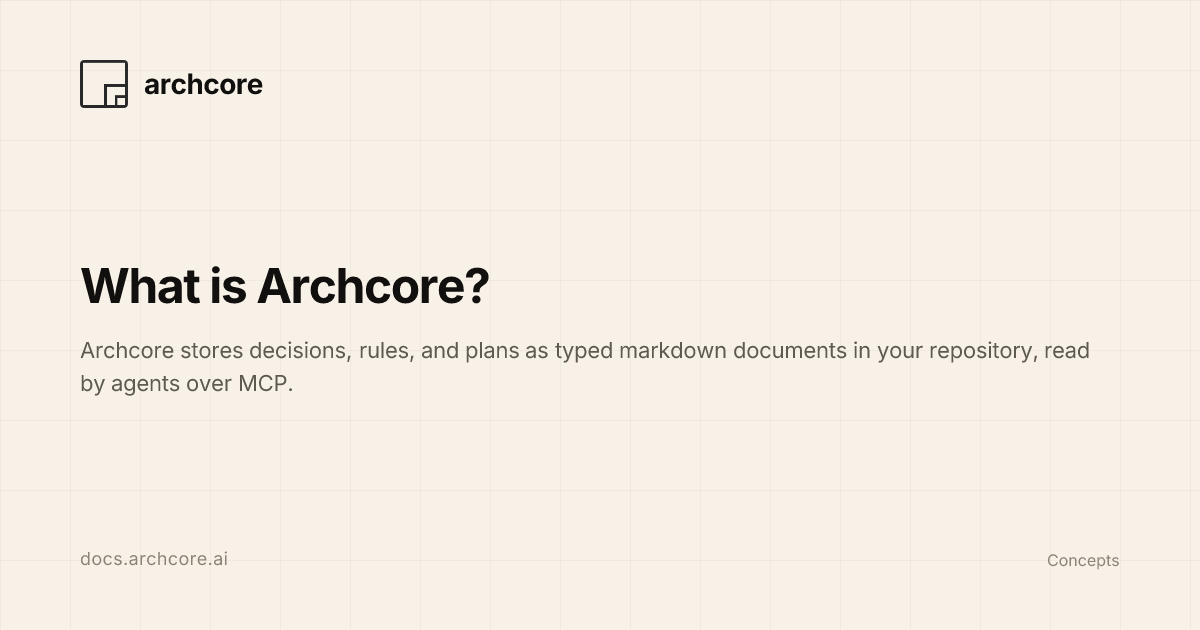
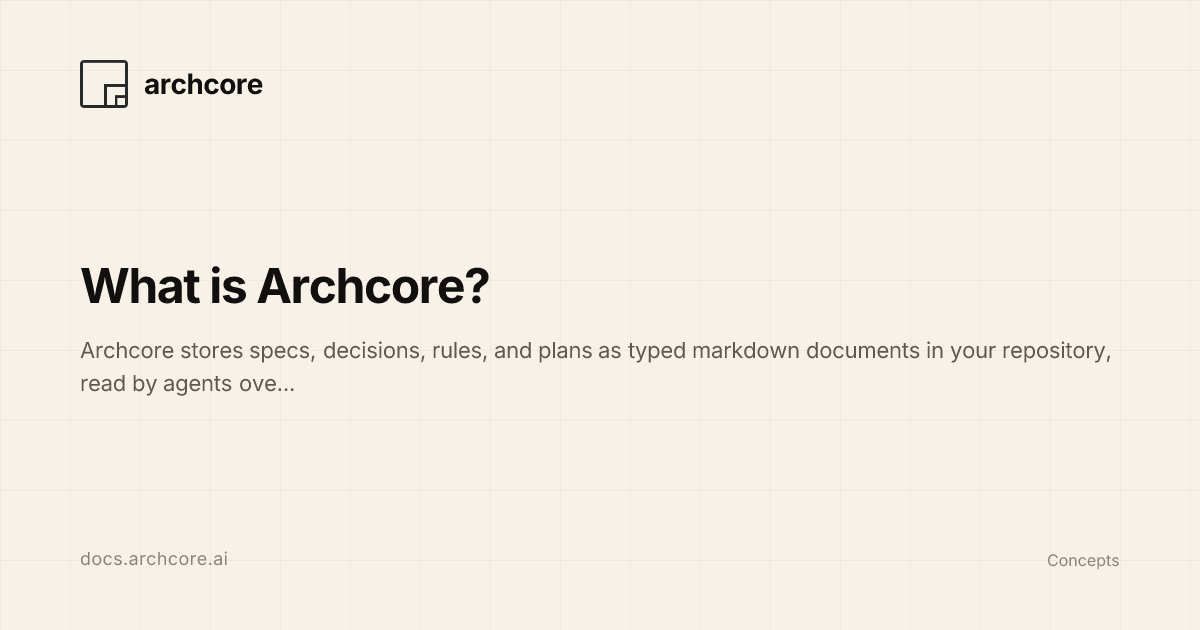
fix: renames

Changed region(s): [[0.0617, 0.5429, 0.925, 0.6333]]

diff --git a/.archcore/docs-seo-fixes.plan.md b/.archcore/docs-seo-fixes.plan.md
@@ -9,11 +9,11 @@ Make the 44 docs pages visible in search. Live SERP research (2026-07-28, see la
 
 ## Tasks
 
-1. **[DONE 2026-07-29] Fix the title template**: homepage now uses a frontmatter `head` title override — `<title>Archcore Docs — Git-native repo memory for AI coding agents</title>` (no "| archcore" suffix; frontmatter `title: Archcore` kept for H1/og:title/sidebar). Site-wide suffix `| archcore` kept (brand wordmark). Sharpened 5 generic page titles: Hooks → Session Hooks, MCP Server → MCP Server for Project Context, Configuration → CLI Configuration, Skills → Plugin Skills, How It Works → How Archcore Works.
+1. **[DONE 2026-07-29, revised 2026-08-10] Fix the title template**: homepage uses a frontmatter `head` title override — now `<title>Archcore Docs — Spec-Driven Development & Context Engineering</title>`. Site-wide suffix is now `— Archcore` (`title: 'Archcore'` + `titleDelimiter: '—'`), matching the "… — Archcore" convention in the shared `product/seo-information-architecture`; the earlier lowercase `| archcore` wordmark suffix was a logo treatment used as an entity name. Sharpened 5 generic page titles: Hooks → Session Hooks, MCP Server → MCP Server for Project Context, Configuration → CLI Configuration, Skills → Plugin Skills, How It Works → How Archcore Works.
 2. **[DONE 2026-07-29, partial] Ship llms.txt**: `starlight-llms-txt@0.10.0` installed (0.11.x requires Astro 7 — this repo is on Astro 6.0.4 / Starlight 0.38.1; revisit on upgrade). Generates `llms.txt`, `llms-full.txt`, `llms-small.txt` + custom sets (CLI/Plugin/Concepts) at build. **Per-page `.md` twins are NOT covered by the plugin — deferred follow-up.**
 3. **[VERIFIED OK, no changes] Canonicals**: all 74 dist HTML files render self-referencing canonicals with trailing slash. 404.html carries a canonical to /404/ — harmless, left as is.
 4. **[PENDING] Cross-link with the landing content hub** (after landing Track A5 ships): docs concept pages <-> /learn/ pillars and /blog/ guides on archcore.ai (e.g. document-types concept <-> typed-templates hub; MCP reference <-> "MCP server for project context" guide).
-5. **[DONE 2026-07-29] Category phrase alignment**: Starlight `description` and homepage description now lead with "Git-native repo memory for AI coding agents" (per landing `.archcore/landing/home-title-category-keyword.adr.md`). No "18 document types" residue in docs content (already said 19).
+5. **[DONE 2026-07-29, revised 2026-08-10] Category phrase alignment**: Starlight `description`, the llms.txt description, the `WebSite` JSON-LD description, and the homepage description now lead with the two discovery categories and the product definition, per `product/two-discovery-categories` and `product/surface-descriptors`. The earlier "Git-native repo memory for AI coding agents" phrasing came from `landing/home-title-category-keyword.adr.md`, which is superseded. No "18 document types" residue in docs content (already said 19).
 
 ## Acceptance Criteria
 

diff --git a/DESIGN.md b/DESIGN.md
@@ -14,11 +14,19 @@ Do not make the website look like a generic AI SaaS landing page.
 
 ## Product Positioning
 
+> Canonical strings live in the shared context: `product/canonical-narrative` (fixed strings, terminology, avoid-list) and `product/surface-descriptors` (the resolved per-surface slots). This section states the brief they create. It does not override them.
+
 ### One-line positioning
 
-Archcore turns a repository into structured, machine-readable context so AI coding agents understand architecture, rules, decisions, and workflows.
+Archcore is a git-native context layer for AI coding agents.
 
-### Category
+### Discovery categories
+
+Spec-Driven Development and Context Engineering. Category line: **Spec-Driven Development & Context Engineering for AI Coding Agents**.
+
+Specs are one part of context. Context is broader than specs. Any surface that names both teaches that relation.
+
+### Product category
 
 Git-native context layer for AI coding agents.
 
@@ -85,13 +93,18 @@ Avoid copy that feels like:
 
 Use words like:
 
+- AI coding agents
+- spec-driven development
+- context engineering
+- project context
+- git-native
+- specs
 - repository
-- structured context
-- machine-readable
 - architecture
+- architecture decisions / ADRs
 - rules
-- decisions
-- workflows
+- plans
+- project knowledge
 - MCP
 - typed documents
 - relation graph
@@ -115,6 +128,8 @@ Avoid overusing:
 - autonomous
 - copilot for X
 - AI-powered everything
+
+Never as positioning for Archcore: **memory** (repo memory, agent memory), **platform** ("context engineering platform"), and **workflow / workflows**. The category term *context engineering* is correct; *platform* is what inflates it. Name the concrete capability instead of "workflow": skills, slash commands, gated tracks, hooks, review, guardrails.
 
 ---
 
@@ -617,7 +632,7 @@ Good icon themes:
 - shield
 - list
 - code
-- workflow
+- graph
 
 Do not use:
 
@@ -739,7 +754,7 @@ Use a 2x2 feature grid:
 - Add a new service
 - Follow team rules
 - Reuse prior decisions
-- Run multi-step workflows
+- Run multi-step tracks
 
 ### 7. FAQ
 
@@ -957,7 +972,7 @@ product:
     - "decisions"
     - "guides"
     - "specs"
-    - "workflows"
+    - "plans"
 
 paths:
   plugin:
@@ -1014,7 +1029,7 @@ So AI agents can follow your architecture, rules, and decisions — instead of g
 
 ```txt
 Plugin
-For Claude Code and Cursor. Higher-level workflows, guardrails, and intent commands inside your agent.
+For Claude Code and Cursor. Skills, gated tracks, guardrails, and intent commands inside your agent.
 ```
 
 CTA:
@@ -1059,7 +1074,7 @@ Instruction files are flat memory. Archcore is structured system context.
 Supporting text:
 
 ```txt
-Instruction files work for agent-specific prompts and short-lived rules. They are not a graph of decisions, standards, specs, and workflows.
+Instruction files work for agent-specific prompts and short-lived rules. They are not a graph of decisions, standards, specs, and plans.
 ```
 
 ---

diff --git a/.archcore/plain-language-and-seo.rule.md b/.archcore/plain-language-and-seo.rule.md
@@ -34,6 +34,11 @@ creates and points to that file. It does not restate the policy.
     `@astro.config.mjs`.
 14. IF a claim cannot be verified against the Archcore CLI or plugin repository, THEN the author MUST
     omit it.
+15. WHEN an author writes a positioning sentence, a page `title`, or a `description` that states what
+    Archcore is, the author MUST take the wording from the shared `product/canonical-narrative` and
+    `product/surface-descriptors` rather than composing a variant for this site.
+16. The author MUST NOT append the site's brand suffix inside a page's frontmatter `title`. The suffix
+    `— Archcore` is applied site-wide by `@astro.config.mjs`.
 
 ## Rationale
 
@@ -101,6 +106,8 @@ parallelism, and an `-ing` tail.
 
 ## References
 
+- `product/canonical-narrative` and `product/surface-descriptors` — the fixed positioning strings
+- `product/seo-information-architecture` — cross-surface title and description conventions, keyword ownership
 - `@AGENTS.md` — the canonical writing policy
 - `@CLAUDE.md` — agent routing and Archcore operation rules
 - `@DESIGN.md` — voice definition: direct, technical, confident, minimal, calm, specific

diff --git a/README.md b/README.md
@@ -2,7 +2,7 @@
 
 <https://docs.archcore.ai/cli/overview/>
 
-Documentation for [Archcore](https://archcore.ai) — System Context Platform that keeps humans and AI in sync with your system.
+Documentation for [Archcore](https://archcore.ai), a git-native context layer for AI coding agents. Specs, architecture, decisions, rules, and plans live in Git and are available to agents as they work.
 
 ## Links
 
